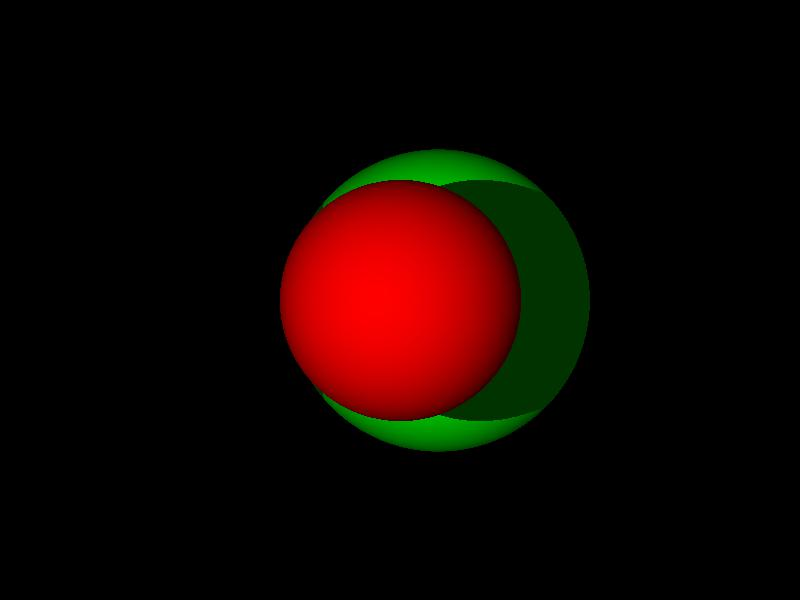
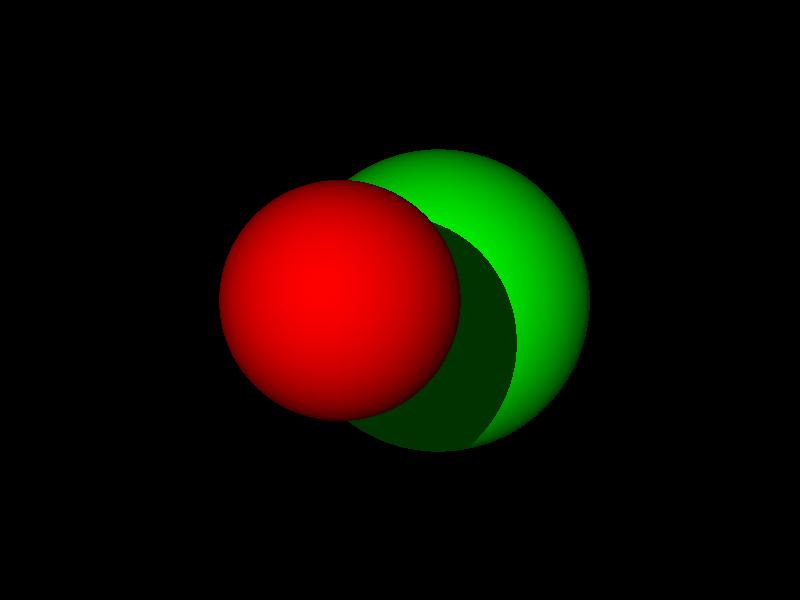
Bug fixes for cast shadows

Changed region(s): [[0.25, 0.3, 0.75, 0.75]]

diff --git a/raytracer.py b/raytracer.py
@@ -1,23 +1,24 @@
 from PIL import Image
 from Coord import Coord
 from Ray import Ray
-from Sphere import Sphere
+from objects import Sphere
 
 def getpixel(ray, objects):
+    # calculates the color of the current pixel based on interected objects
     intersect, dist = raytrace(ray, objects)
     if intersect:
         intersect_point = ray.intersect_point( dist )
         light_vector = Ray(point1=light, point2=intersect_point)
         normal_vector = intersect.normal(intersect_point)
-        if inshadow(dist, intersect_point, light_vector, objects):
+        if inshadow(intersect_point, normal_vector, light_vector, objects):
             shade = 0.0
         else:
             shade = lambertshade(light_vector, normal_vector)
         point_color = intersect.pointcolor(ambient_coefficient, \
-            diffuse_coefficient, shade)
-        pixels.append( point_color ) # alter for shadow
+                        diffuse_coefficient, shade)
+        return point_color # alter for shadow
     else:
-        pixels.append( (0, 0, 0) )
+        return (0, 0, 0)
     return
 
 def raytrace(ray, objects):
@@ -33,11 +34,13 @@ def raytrace(ray, objects):
             last_dist = dist
     return (last_intersect, last_dist)
 
-def inshadow(intersect_dist, intersect_point, ray, objects):
+def inshadow(intersect_point, normal, light_vector, objects):
     # given an object and light vector, checks whether or not the object is in shadow
+    new_point = intersect_point.movepoint(normal, shadow_bias)
+    master_dist = new_point.distance(light_vector.origin)
     for x in objects:
-        dist = x.ray_intersect(ray)
-        if dist !=0 and dist < intersect_dist:
+        dist = x.ray_intersect(light_vector)
+        if dist !=0.0 and dist < master_dist:
             return True
     return False
 
@@ -53,27 +56,31 @@ def lambertshade(light_vector, normal_vector):
     return shade
 
 camera = Coord(0, 0, 0)
-light = Coord(-2, 0, 0)
+light = Coord(-1.5, 1, 0)
 ambient_coefficient = 0.2
 diffuse_coefficient = 1.0 - ambient_coefficient
+shadow_bias = 1e-4
 objects = []
-objects.append( Sphere( Coord(0, 0, 10), 1, (255, 0, 0) ) )
+objects.append( Sphere( Coord(-0.5, 0, 10), 1, (255, 0, 0) ) )
 objects.append( Sphere( Coord(0.5, 0, 16), 2, (0, 255, 0) ) )
 
-width = 800
-height = 600
+# Set frame details
+frame_width = 800 # in pixels
+frame_height = 600 # in pixels
+frame_depth = 6 # in units
+frame_unit = 0.005
 
 pixels = []
-ypos = height / 200 / 2.0
+ypos = frame_height * frame_unit / 2.0
 
-for y in range(height):
-    xpos = -width / 200 / 2.0
-    for x in range(width):
-        ray = Ray(point1=camera, point2=Coord(xpos, ypos, 6))
-        getpixel(ray, objects)
-        xpos += 0.005
-    ypos -= 0.005
+for y in range(frame_height):
+    xpos = -frame_width * frame_unit / 2.0
+    for x in range(frame_width):
+        ray = Ray(point1=camera, point2=Coord(xpos, ypos, frame_depth))
+        pixels.append( getpixel(ray, objects) )
+        xpos += frame_unit
+    ypos -= frame_unit
 
-image = Image.new('RGB', (width, height))
+image = Image.new('RGB', (frame_width, frame_height))
 image.putdata(pixels)
 image.save('test.jpg')

diff --git a/objects.py b/objects.py
@@ -1,0 +1,78 @@
+from Coord import Coord
+from Ray import Ray
+import math
+
+class Object:
+    def __init__(self, color, shape):
+        self.color = color
+        self.shape = shape
+
+    def pointcolor(self, ambient_coefficient, diffuse_coefficient, shade):
+        # returns the color for when the object is in shadow
+        mod = ambient_coefficient + diffuse_coefficient * shade
+        point_color = ( int(self.color[0] * mod), \
+                        int(self.color[1] * mod), \
+                        int(self.color[2] * mod) )
+        return point_color
+
+class Sphere:
+    # def __init__(self, center, radius):
+        # Object.__init__(self, color, "sphere")
+    def __init__(self, center, radius, color):
+        self.center = center
+        self.radius = radius
+        self.color = color
+
+    def pointcolor(self, ambient_coefficient, diffuse_coefficient, shade):
+        # returns the color for when the object is in shadow
+        mod = ambient_coefficient + diffuse_coefficient * shade
+        point_color = ( int(self.color[0] * mod), \
+            int(self.color[1] * mod), \
+            int(self.color[2] * mod) )
+        return point_color
+
+    def normal(self, point):
+        # returns the normal for a point on the sphere
+        return Ray(point1=self.center, point2=point)
+
+    def ray_intersect(self, ray):
+        # vector between vector origin and sphere center
+        L = Coord(ray.origin.x - self.center.x,
+                  ray.origin.y - self.center.y,
+                  ray.origin.z - self.center.z)
+        b = 2.0 * ray.unitvector.x * (L.x) + 2.0 * ray.unitvector.y * (L.y) + \
+            2.0 * ray.unitvector.z * (L.z)
+        c = self.center.x**2 + self.center.y**2 + self.center.z**2 + \
+            ray.origin.x**2 + ray.origin.y**2 + ray.origin.z**2 + \
+            -2.0 * (self.center.x * ray.origin.x + self.center.y * ray.origin.y + \
+                  self.center.z * ray.origin.z) - self.radius**2
+        d = b**2 - 4*c
+        # If the discriminate is negative, there is no intersection
+        if d < 0:
+            return 0.0
+        else:
+            t0 = (-b - math.sqrt(d)) / 2.0
+            if t0 >= 0.0:
+                return t0
+            t1 = (-b + math.sqrt(d)) / 2.0
+            if t1 >= 0:
+                return t1
+            return 0.0
+
+    def __str__(self):
+        return "Sphere at %s, with radius %f" % (self.center, self.radius)
+
+class Cylinder(Object):
+    def __init__(self, center, height, radius):
+        Object.__init__(self, color, "cylinder")
+        self.center = center
+        self.radius = float(radius)
+        self.height = float(height)
+
+    def ray_intersect(self, ray):
+        pass
+
+class Plane(Object):
+    def __init__(self, points):
+        Object.__init__(self, color, "plane")
+        self.points = points

diff --git a/Coord.py b/Coord.py
@@ -1,8 +1,20 @@
+import math
+
 class Coord:
     def __init__(self, x, y, z):
         self.x = x
         self.y = y
         self.z = z
+
+    def movepoint(self, vector, dist):
+        x = vector.unitvector.x * dist + self.x
+        y = vector.unitvector.y * dist + self.y
+        z = vector.unitvector.z * dist + self.z
+        return Coord( x, y, z )
+
+    def distance(self, point):
+        d = Coord(self.x - point.x, self.y - point.y, self.z - point.z)
+        return math.sqrt(d.x**2 + d.y**2 + d.z**2)
 
     def __str__(self):
         return "(%f, %f, %f)" % (self.x, self.y, self.z)
